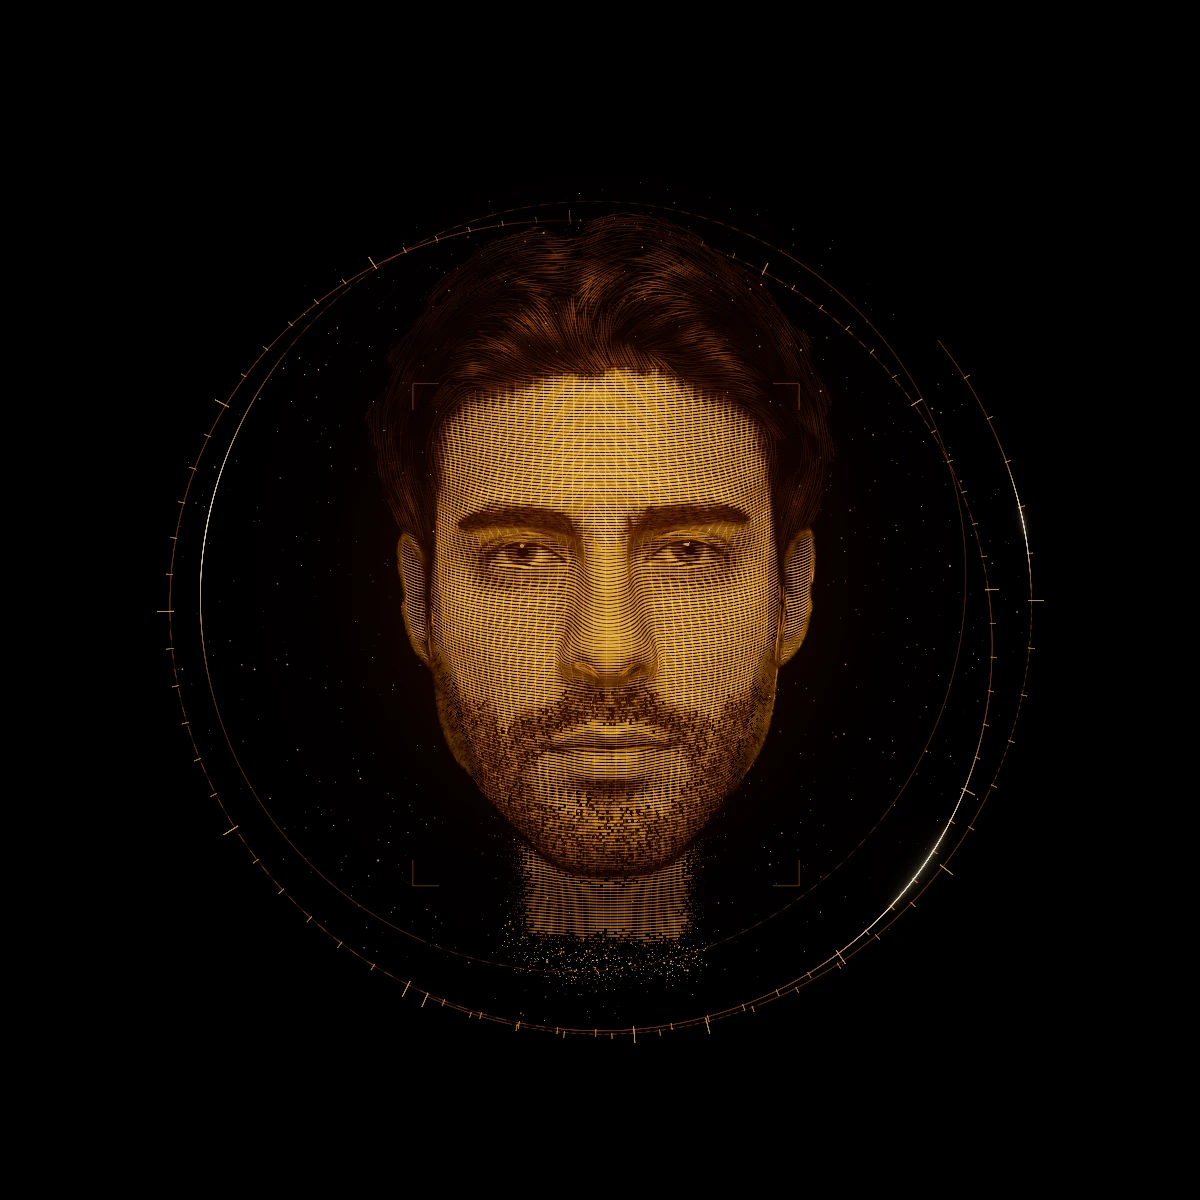
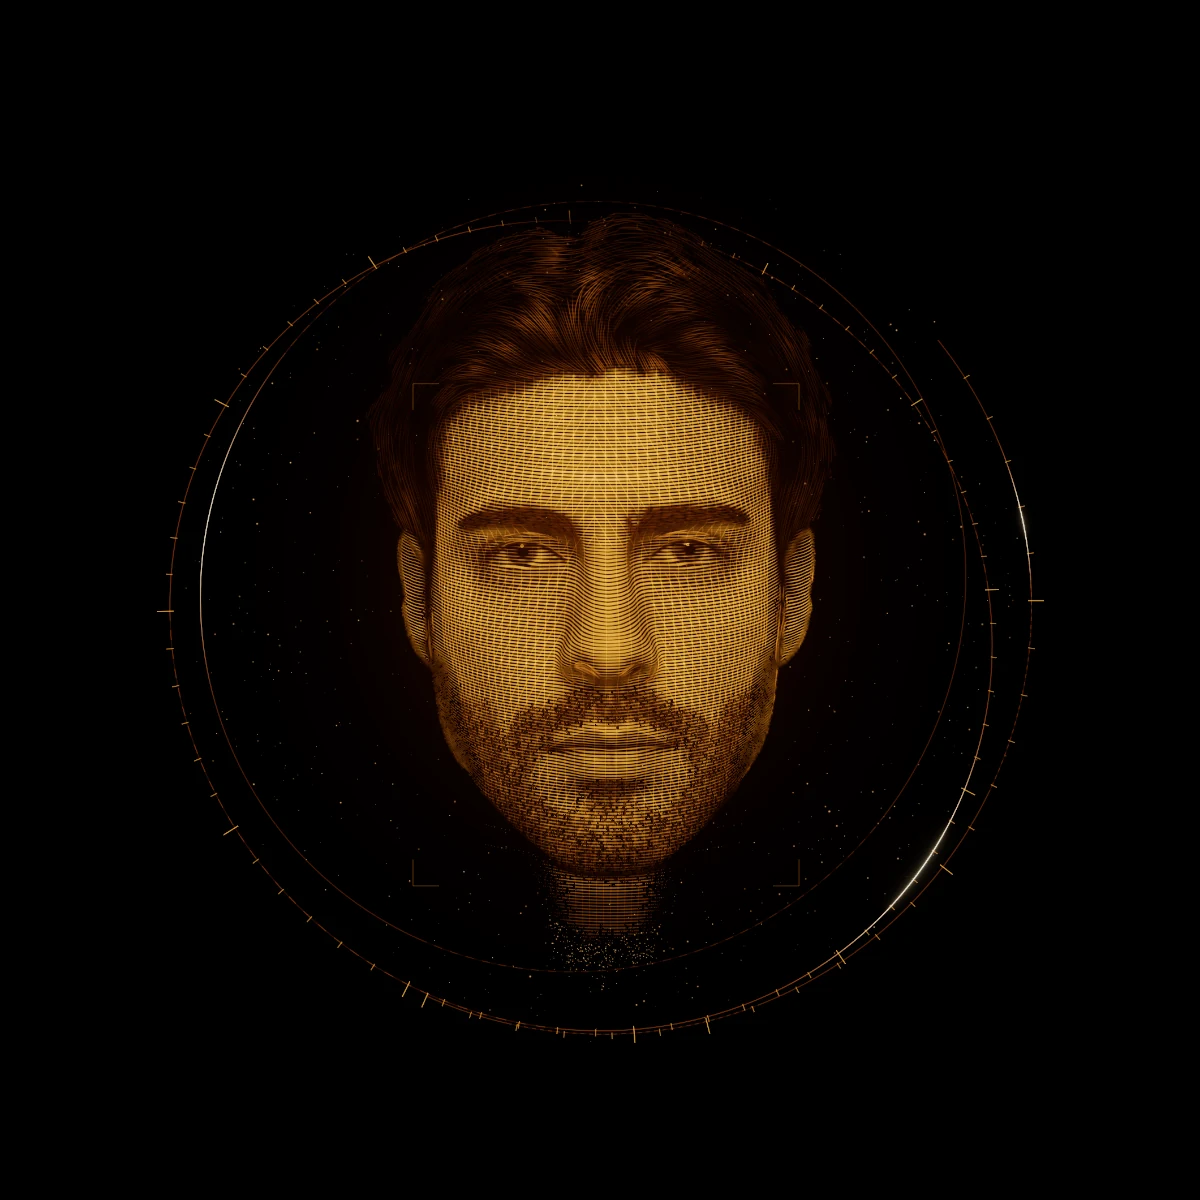
Hologram: slimmer, rounder neck
The neck copied the photo's width where it widens into the collar, so it
read as a flat slab almost as wide as the jaw. It is now about 0.4 of the
face width and narrows under the jaw. It is shaded like a cylinder and
breaks into dashes along a U-shaped line under the beard. The neck dust
drifts in toward the neck's axis instead of spreading out below it.
Posters regenerated; the face above the jaw is unchanged.

Claude-Session: https://claude.ai/code/session_01YPth3hHsysZd6N1StRjhvQ

Changed region(s): [[0.3392, 0.185, 0.6783, 0.8017]]

diff --git a/src/components/hologram/builder.ts b/src/components/hologram/builder.ts
@@ -78,6 +78,8 @@ export interface BuildOutput {
     cropWorld: number;
     tilt: number;
     devPerCrop: number;
+    /** world x of the neck's axis (the neck dust drifts in toward it) */
+    neckX: number;
     counts: { scan: number; mer: number; diag: number; strand: number; feat: number; points: number; nodes: number; particles: number };
     bytes: { records: number; texture: number; index: number; perPoint: number };
     ms: Record<string, number>;
@@ -321,18 +323,51 @@ export function buildFaceGeometry(input: BuildInput): BuildOutput {
   const seamY = (x: number) => 0.5 * (polyY(SEAM_UP, x) + polyY(SEAM_LO, x));
   const mouthL = LMk[61][0], mouthR = LMk[291][0];
   const JAW = [172, 136, 150, 149, 176, 148, 152, 377, 400, 378, 379, 365, 397];
-  const neckCx = dbg('neckcx', 318), NECK_HW = dbg('neckhw', 124), NECK_Y0 = chinY + dbg('collar', 4), NECK_SIG = dbg('necksig', 42), NECK_HOLD = dbg('neckhold', 58);
-  const neckW = (x: number, y: number) => (y <= polyY(JAW, x) + 1 ? 1 : 1 - smooth(NECK_HW - 50, NECK_HW + 6, Math.abs(x - neckCx)));
-  const neckStart = (x: number) => Math.min(NECK_Y0, polyY(JAW, x) + dbg('neckside', 26));
-  const neckV = (y: number, x = neckCx) => { const y0 = neckStart(x) + NECK_HOLD; return y < y0 ? 1 : Math.exp(-Math.pow((y - y0) / NECK_SIG, 2)); };
-  // neck brightness: a short neck at ~45-55 % of the face's filament brightness below the jaw (not a bright bib)
-  const neckBright = (x: number, y: number) => {
-    const below = smooth(neckStart(x) - 6, neckStart(x) + 34, y);
-    // the neck's sides fall off in brightness too (no box with hard vertical edges)
-    const side = 1 - smooth(NECK_HW - 70, NECK_HW + 4, Math.abs(x - neckCx));
-    return 1 - below * (dbg('neckdim', 0.3) + 0.5 * (1 - side));
+  // The neck: a short, slim column under the jaw that dissolves before any shoulders. Its shape is a small set of
+  // knobs: hw (half width at mid-neck), soft (width of the side ramp of the dissolve), flare/flareL (extra half width
+  // right under the jaw line, easing out over flareL px: the column curves out into the jaw instead of meeting it at a
+  // right angle), u (how much earlier the sides end than the centre: a U-shaped bottom instead of a flat cut).
+  type NeckShape = { cx: number; hw: number; y0: number; side: number; sig: number; hold: number; soft: number; flare: number; flareL: number; u: number };
+  const mkNeck = (s: NeckShape) => {
+    const start = (x: number) => Math.min(s.y0, polyY(JAW, x) + s.side);
+    const hwAt = (x: number, y: number) => (s.flare > 0 ? s.hw + s.flare * (1 - smooth(0, s.flareL, y - polyY(JAW, x))) : s.hw);
+    // the line where the dissolve starts (U-shaped when u > 0)
+    const y1 = (x: number) => start(x) + s.hold - s.u * Math.min(1, ((x - s.cx) / s.hw) ** 2);
+    const w = (x: number, y: number) => {
+      if (y <= polyY(JAW, x) + 1) return 1;
+      const hw = hwAt(x, y);
+      return 1 - smooth(hw - s.soft, hw + 6, Math.abs(x - s.cx));
+    };
+    const v = (y: number, x: number) => { const y0 = y1(x); return y < y0 ? 1 : Math.exp(-Math.pow((y - y0) / s.sig, 2)); };
+    return { cx: s.cx, start, hwAt, y1, w, v, k: (x: number, y: number) => w(x, y) * v(y, x) };
   };
-  const neckK = (x: number, y: number) => neckW(x, y) * neckV(y, x);
+  // The neck as first shipped (a slab nearly as wide as the jaw). It is drawn nowhere: it only fixes how many random
+  // numbers the beard stubble and the neck dust consume, so the shared rng stream (and with it every stubble tick,
+  // network node and glint on the face) stays where it is whatever the visible neck looks like. Never tune it, and
+  // keep it out of dbg(): changing it moves detail above the jaw.
+  const NECK_REF: NeckShape = { cx: 318, hw: 124, y0: chinY + 4, side: 26, sig: 42, hold: 58, soft: 50, flare: 0, flareL: 1, u: 0 };
+  const neckRef = mkNeck(NECK_REF);
+  // the visible neck: ~0.4 of the face width (the photo's neck runs into the T-shirt collar and trapezius, so copying
+  // its mask gave a pillar), soft sides, a short fillet into the jaw, a U-shaped dissolve before any shoulders
+  const NECK = mkNeck({
+    cx: dbg('neckcx', NECK_REF.cx), hw: dbg('neckhw', 105), y0: chinY + dbg('collar', 4), side: dbg('neckside', NECK_REF.side),
+    sig: dbg('necksig', 34), hold: dbg('neckhold', 55), soft: dbg('necksoft', 80),
+    flare: dbg('neckflare', 15), flareL: Math.max(1, dbg('neckflarel', 25)), u: dbg('necku', 80),
+  });
+  const NECK_DIM = dbg('neckdim', 0.35), NECK_EDGE = dbg('neckedge', 0.15), NECK_CYL = dbg('neckcyl', 2), NECK_FADE = dbg('neckfade', 0.5);
+  // neck brightness: below the jaw the neck is ~65 % of the face's filament brightness on its centre line
+  const neckBright = (x: number, y: number) => {
+    const s0 = NECK.start(x);
+    const below = smooth(s0 - 6, s0 + 34, y);
+    // shaded like a cylinder: a bright centre ridge falling off toward the sides (NECK_EDGE at the rim), so the
+    // column reads round instead of an evenly lit slab with two cut edges
+    const u = Math.min(1, Math.abs(x - NECK.cx) / (NECK.hwAt(x, y) + 4));
+    const cyl = NECK_EDGE + (1 - NECK_EDGE) * Math.pow(1 - u * u, 0.5 * NECK_CYL);
+    // and it fades on the way down, so it recedes into the dissolve instead of ending as a lit slab
+    const fade = NECK_FADE > 0 ? NECK_FADE * smooth(s0, NECK.y1(x) + 20, y) : 0;
+    return 1 - below * (1 - (1 - NECK_DIM) * cyl * (1 - fade));
+  };
+  const neckK = NECK.k;
   const EAR_XL = LMk[234][0] - 4, EAR_XR = LMk[454][0] + 4, EAR_Y0 = LMk[468][1] - 70, EAR_Y1 = LMk[172][1] - 20;
   // (finishing pass) the zone between the ear and the cheek (pre-auricular skin, sideburn) is flagged with the ear, so
   // in turned views the filaments bridge from the cheek into the ear instead of leaving a black gap
@@ -938,7 +973,7 @@ export function buildFaceGeometry(input: BuildInput): BuildOutput {
       const b = bil(beardB, sx, sy) * (1 - bil(lipF, sx, sy));
       if (b < 0.2 || rng() > b * 1.25) continue;
       const m = bil(mask, sx, sy);
-      if (m < 0.1 || neckK(sx, sy) < 0.05) continue;
+      if (m < 0.1 || neckRef.k(sx, sy) < 0.05) continue;
       const u = (sx - midX) / halfW;
       let ang = sy < lipTop ? u * 1.6 : sy < lipBot ? u * 0.9 : u * 0.35;
       ang += (rng() - 0.5) * 0.7;
@@ -1244,6 +1279,7 @@ export function buildFaceGeometry(input: BuildInput): BuildOutput {
   const ppos = new Float32Array(NPt * 3);
   const pinfo = new Float32Array(NPt * 4); // kind, seed, seed2, brightness
   const phor = new Float32Array(NPt * 4);
+  let neckX = 0;
   {
     let k = 0;
     const w = [0, 0, 0];
@@ -1256,21 +1292,37 @@ export function buildFaceGeometry(input: BuildInput): BuildOutput {
       pinfo.set([0, rng(), rng(), 0.6 + 0.4 * rng()], k * 4);
       phor.set([-2, -2, -2, -2], k * 4);
     }
-    let made = 0, tries = 0;
-    while (made < nNeck && tries < nNeck * 200) {
-      tries++;
-      const x = meta.head.left + rng() * (meta.head.right - meta.head.left);
-      const y = neckStart(x) + NECK_HOLD - 10 + rng() * 90;
-      const m = bil(mask, x, y);
-      const wgt = neckW(x, y) * Math.min(1, m * 2.5) * Math.pow(1 - neckV(y, x), 0.6) * Math.exp(-Math.pow((y - neckStart(x) - NECK_HOLD - 30) / 30, 2));
-      if (rng() > wgt) continue;
-      const z = bil(depth, x, y) + 2;
-      toWorld(x, y, z, w);
-      ppos.set(w, k * 3);
-      pinfo.set([1, rng(), rng(), 0.4 + 0.6 * bil(tone, x, y)], k * 4);
-      phor.set([horizon(x, y, z, 1, 0), horizon(x, y, z, -1, 0), horizon(x, y, z, 0, -1), horizon(x, y, z, 0, 1)], k * 4);
-      k++; made++;
-    }
+    // neck dust along the visible neck's dissolve line: dimmer than the filaments, and only a share of it shown (the
+    // rest is parked as kind 9, never drawn), so the slim column does not end in a dense glitter cluster. The stream is
+    // then rewound and advanced exactly as the reference neck's loop draws it (emit = false), so the network nodes and
+    // glints after it stay put whatever the visible neck looks like.
+    const DUST_W = dbg('neckdustw', 2), DUST_KEEP = dbg('neckdustkeep', 0.65), DUST_I = dbg('neckdusti', 0.7);
+    const neckDust = (shape: ReturnType<typeof mkNeck>, emit: boolean, wPow: number) => {
+      let made = 0, tries = 0;
+      while (made < nNeck && tries < nNeck * 200) {
+        tries++;
+        const x = meta.head.left + rng() * (meta.head.right - meta.head.left);
+        const y1 = shape.y1(x);
+        const y = y1 - 10 + rng() * 90;
+        const m = bil(mask, x, y);
+        const wgt = Math.pow(shape.w(x, y), wPow) * Math.min(1, m * 2.5) * Math.pow(1 - shape.v(y, x), 0.6) * Math.exp(-Math.pow((y - y1 - 30) / 30, 2));
+        if (rng() > wgt) continue;
+        made++;
+        if (!emit) { rng(); rng(); continue; }
+        const z = bil(depth, x, y) + 2;
+        toWorld(x, y, z, w);
+        ppos.set(w, k * 3);
+        pinfo.set([rng() < DUST_KEEP ? 1 : 9, rng(), rng(), DUST_I * (0.4 + 0.6 * bil(tone, x, y))], k * 4);
+        phor.set([horizon(x, y, z, 1, 0), horizon(x, y, z, -1, 0), horizon(x, y, z, 0, -1), horizon(x, y, z, 0, 1)], k * 4);
+        k++;
+      }
+    };
+    const rs0 = rs;
+    neckDust(NECK, true, DUST_W); // > 1 keeps the dust inside the column (not a wider skirt)
+    rs = rs0;
+    neckDust(neckRef, false, 1);
+    // the neck's axis in world x: the shader draws the falling dust in toward it
+    neckX = toWorld(NECK.cx, NECK.y1(NECK.cx), bil(depth, NECK.cx, NECK.y1(NECK.cx)) + 2, w)[0];
     // network nodes at REAL crossings of slices, meridians and diagonals on the open planes (never on the eyes):
     // a steady faint node, ~4 % hubs a little brighter, and rare short flashes
     const nn = nodes.length >> 2;
@@ -1308,7 +1360,7 @@ export function buildFaceGeometry(input: BuildInput): BuildOutput {
     pts,
     frame,
     info: {
-      scanStep, scanWorld: scanStep * S, merWorld: merStep * S, cropWorld: S, tilt: KT, devPerCrop,
+      scanStep, scanWorld: scanStep * S, merWorld: merStep * S, cropWorld: S, tilt: KT, devPerCrop, neckX,
       counts: { scan: nScan, mer: nMer, diag: nDiag, strand: nStr, feat: nFeat, points: nP, nodes: nodes.length >> 2, particles: NPt },
       bytes: { records: nP * 32, texture: rec.byteLength, index: index.byteLength, perPoint: +((rec.byteLength + index.byteLength + nP * 2) / Math.max(1, nP)).toFixed(1) },
       ms: { ...prof, total: Math.round(tEnd - tStart) },

diff --git a/src/components/hologram/hologramObjects.ts b/src/components/hologram/hologramObjects.ts
@@ -345,11 +345,16 @@ export function createHologramObjects(out: BuildOutput, world: FaceWorld, meta: 
   ptGeo.boundingSphere = new THREE.Sphere(new THREE.Vector3(), 3);
   const ptMat = new THREE.ShaderMaterial({
     ...additive,
-    uniforms: { ...colors, ...common, uMerLod: filMat.uniforms.uMerLod, uNode: { value: dbg('gnode', 1.0) } },
+    uniforms: {
+      ...colors, ...common, uMerLod: filMat.uniforms.uMerLod, uNode: { value: dbg('gnode', 1.0) },
+      // neck dust: (axis world x, how far it is drawn in toward the axis by the end of its fall, fall length scale)
+      uNeck: { value: new THREE.Vector3(info.neckX, dbg('neckin', 0.12), dbg('neckfall', 0.5)) },
+    },
     vertexShader: /* glsl */ `
       attribute vec4 aInfo;
       attribute vec4 aHor;
       uniform float uTime, uConverge, uAssemble, uIgnite, uPxWorldPerDist, uDpr, uPulse, uMerLod, uNode, uSS;
+      uniform vec3 uNeck;
       ${GLSL_VIS}
       varying float vA, vHot;
       void main() {
@@ -370,8 +375,9 @@ export function createHologramObjects(out: BuildOutput, world: FaceWorld, meta: 
           a *= 1.0 - 0.8 * inFace;
         } else if (kind < 1.5) {
           float ph = fract(uTime * (0.05 + 0.06 * aInfo.y) + aInfo.z);
-          p.y -= ph * (0.035 + 0.045 * aInfo.z);
-          p.x += 0.012 * sin(uTime * 0.7 + aInfo.y * 20.0) * ph;
+          // neck dust falls a short way and is drawn in toward the neck's axis as it goes (no skirt below the column)
+          p.y -= ph * (0.035 + 0.045 * aInfo.z) * uNeck.z;
+          p.x += 0.012 * sin(uTime * 0.7 + aInfo.y * 20.0) * ph + (uNeck.x - position.x) * uNeck.y * ph;
           vec3 from = position * (2.0 + aInfo.y);
           p = mix(from, p, smoothstep(0.0, 1.0, uConverge));
           size = 0.003 + 0.0045 * aInfo.z;

diff --git a/README.md b/README.md
@@ -95,7 +95,9 @@ worker. **copy settings JSON** puts the current values on the clipboard.
   depth surface whose width and brightness follow the tone like a line engraving, radial meridians
   and diagonals that turn the cheeks and forehead into a wireframe mesh, evenly spaced strands for
   hair and brows, stubble ticks for the beard, landmark lines for lids, iris and lips, edge ridges,
-  a faint back-of-head shell for turned views, dust / neck-dissolve / node particles. Every point
+  a faint back-of-head shell for turned views, a short slim neck (about 0.4 of the face width,
+  shaded like a cylinder, breaking into dashes along a U-shaped line under the beard), dust /
+  neck-dissolve / node particles. Every point
   is packed into a 32-byte record (vertex pulling from an RGBA32UI texture), with precomputed
   horizon angles so the relief occludes itself without a depth buffer.
 - **Worker** (`hologram.worker.ts`, started by `createWorker.ts`): fetches and decodes the maps once
@@ -118,7 +120,9 @@ worker. **copy settings JSON** puts the current values on the clipboard.
 - `SphereStage.tsx` picks a tier (`src/lib/tier.ts`), lazy-loads the scene client-side, and shows
   the static poster (`public/sphere-static.webp`, a real front capture of the hologram on black,
   blended with `screen`) until the head is built and rendering, for `prefers-reduced-motion`, and
-  when WebGL2 is unavailable or the maps fail to load.
+  when WebGL2 is unavailable or the maps fail to load. Recapture the poster after any change to the
+  head: `/sphere?capture&freeze&t=4&tier=high` at 1200x1200 on a pure black page, and
+  `sphere-static-600.webp` as a Lanczos downsample of it.
 - `SphereScene.tsx` compiles the shaders and waits for the built head before starting the render
   loop (frames rendered into the hidden canvas while the worker builds only queue GPU work: on
   software GL that stalled the first head frame by 13-50 s), flips readiness (which
